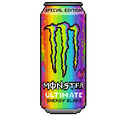
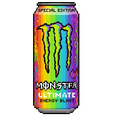
chore: close the deploy-hygiene gaps found in the launch audit
.env.local.example documented 4 of the 8 vars the code requires. A fresh
deploy from it ships with every push notification and every admin route dead,
and nothing says so — serverPush skips setVapidDetails when the keys are
empty and then reports failed sends as successes. Added the service-role key,
both VAPID keys and CRON_SECRET, each with where it comes from.

next.config.mjs pinned NEXT_PUBLIC_SUPABASE_URL and the anon key in an `env`
block. That block is inlined at build time and beats the real environment, so
Vercel env vars for those two names were dead config: rotating the anon key
had no effect and no build could point at a staging project without editing
committed source. Removed — BOTH MUST NOW BE SET IN VERCEL BEFORE DEPLOYING.

.gitignore ignored `__*` while every scratch render this repo produces is
named _base_common.png / _v2_epic.png — single underscore. The pattern
matched none of them and left ~98 files one `git add -A` away from history.

/couple exited via router.back(). It is the deep-link target of every
partner-message push, and a push-opened window has no history, so back
no-oped and the button looked broken — the same trap /hallway and /notes
already carry a comment about. Replaced, matching them.

The Monsta art ships with foodArt bumped to ?v=4 in the same commit; the SW
serves images cache-first, so new bytes at an old path show the old picture.

diff --git a/src/app/(app)/couple/page.tsx b/src/app/(app)/couple/page.tsx
@@ -105,13 +105,21 @@ export default function CouplePage() {
 
   usePageReady(!loading)
 
+  function exitToHome() {
+    // Partner-message pushes deep-link straight here (sw.js → openWindow/
+    // navigate), so the page often opens with no in-app history — router.back()
+    // silently no-ops and the back button looks broken. Replace instead, the
+    // same way /notes and /hallway do.
+    router.replace('/home')
+  }
+
   if (loading) return <PageLoader label="LOADING" />
 
   return (
     <div className="page-scroll" style={pageStyle}>
       {/* ── Header row ── */}
       <div className="flex items-center gap-2 mb-2">
-        <button onClick={() => { playSound('ui_back'); router.back() }}
+        <button onClick={() => { playSound('ui_back'); exitToHome() }}
           className="flex items-center justify-center active:translate-y-[1px] transition-transform relative"
           style={{ width: 32, height: 32, ...OBSIDIAN_BTN }}>
           <Rivets inset={2} />

diff --git a/src/lib/foodMeta.ts b/src/lib/foodMeta.ts
@@ -108,4 +108,4 @@ export const FOOD_ORDER: FoodKey[] = [
  * cache entry instead of fetching identical bytes under two URLs, and the
  * version can't drift between them.
  */
-export const foodArt = (id: string): string => `/food/${id}.png?v=3`
+export const foodArt = (id: string): string => `/food/${id}.png?v=4`
